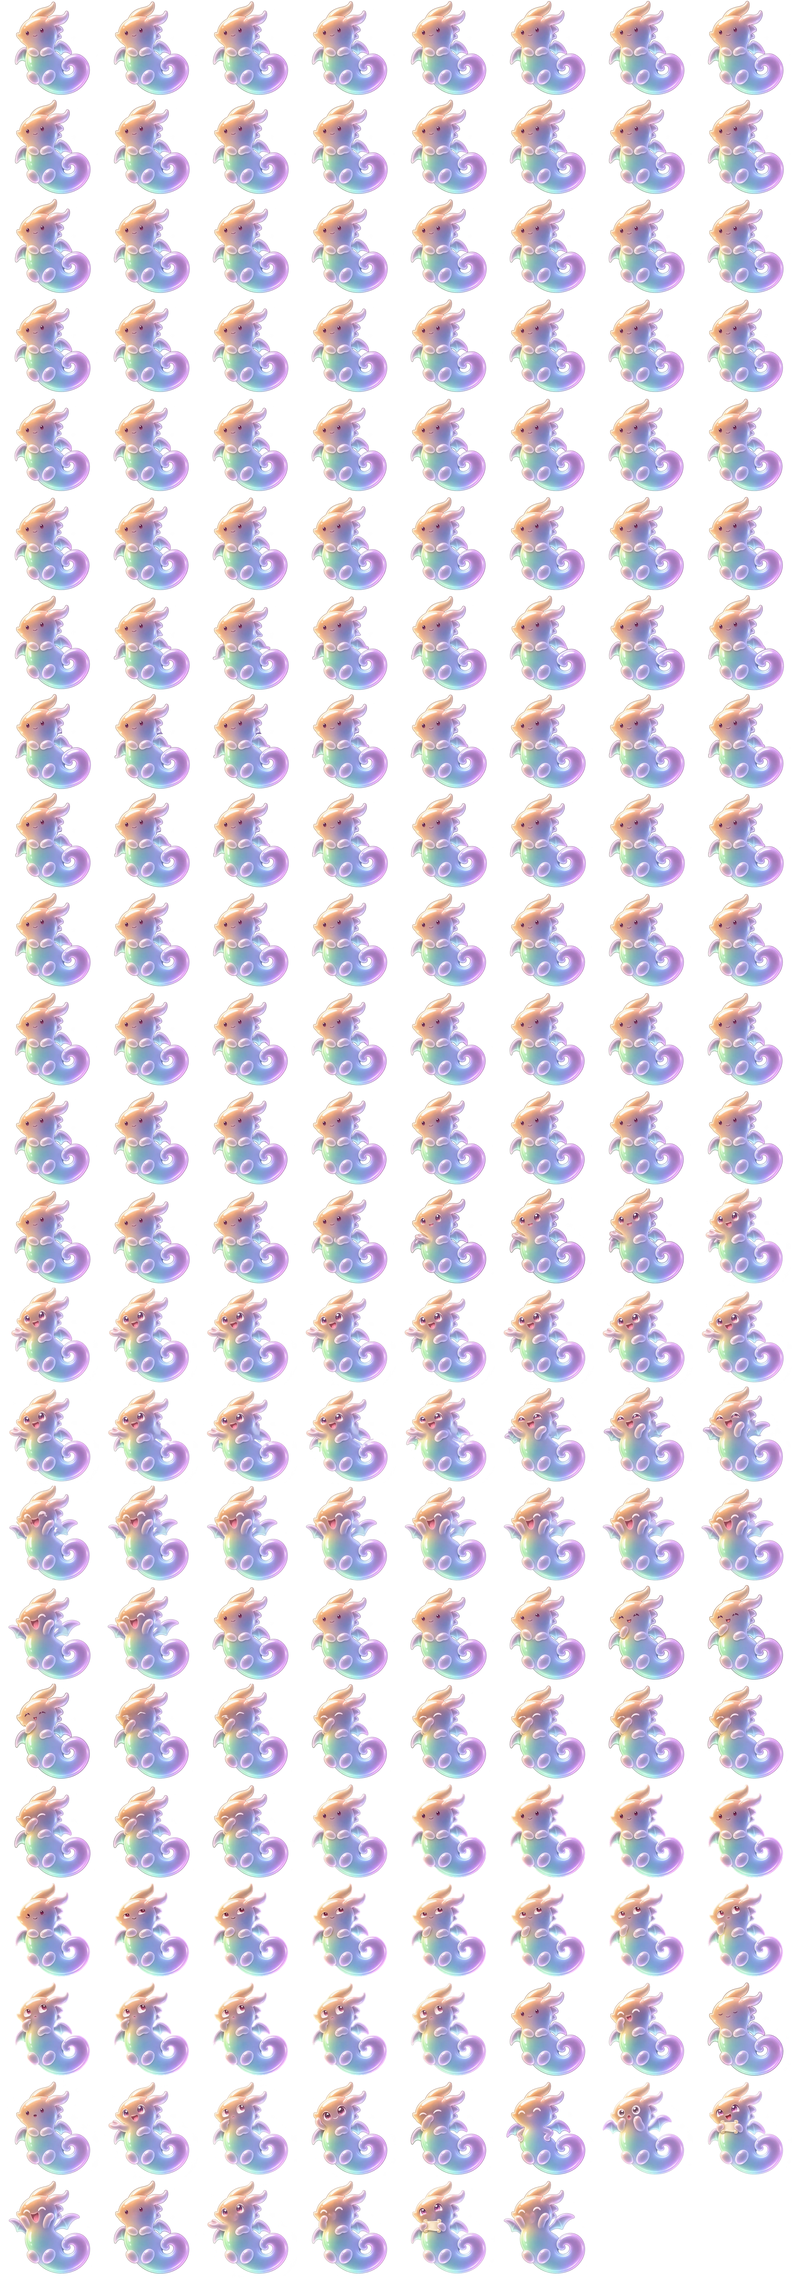
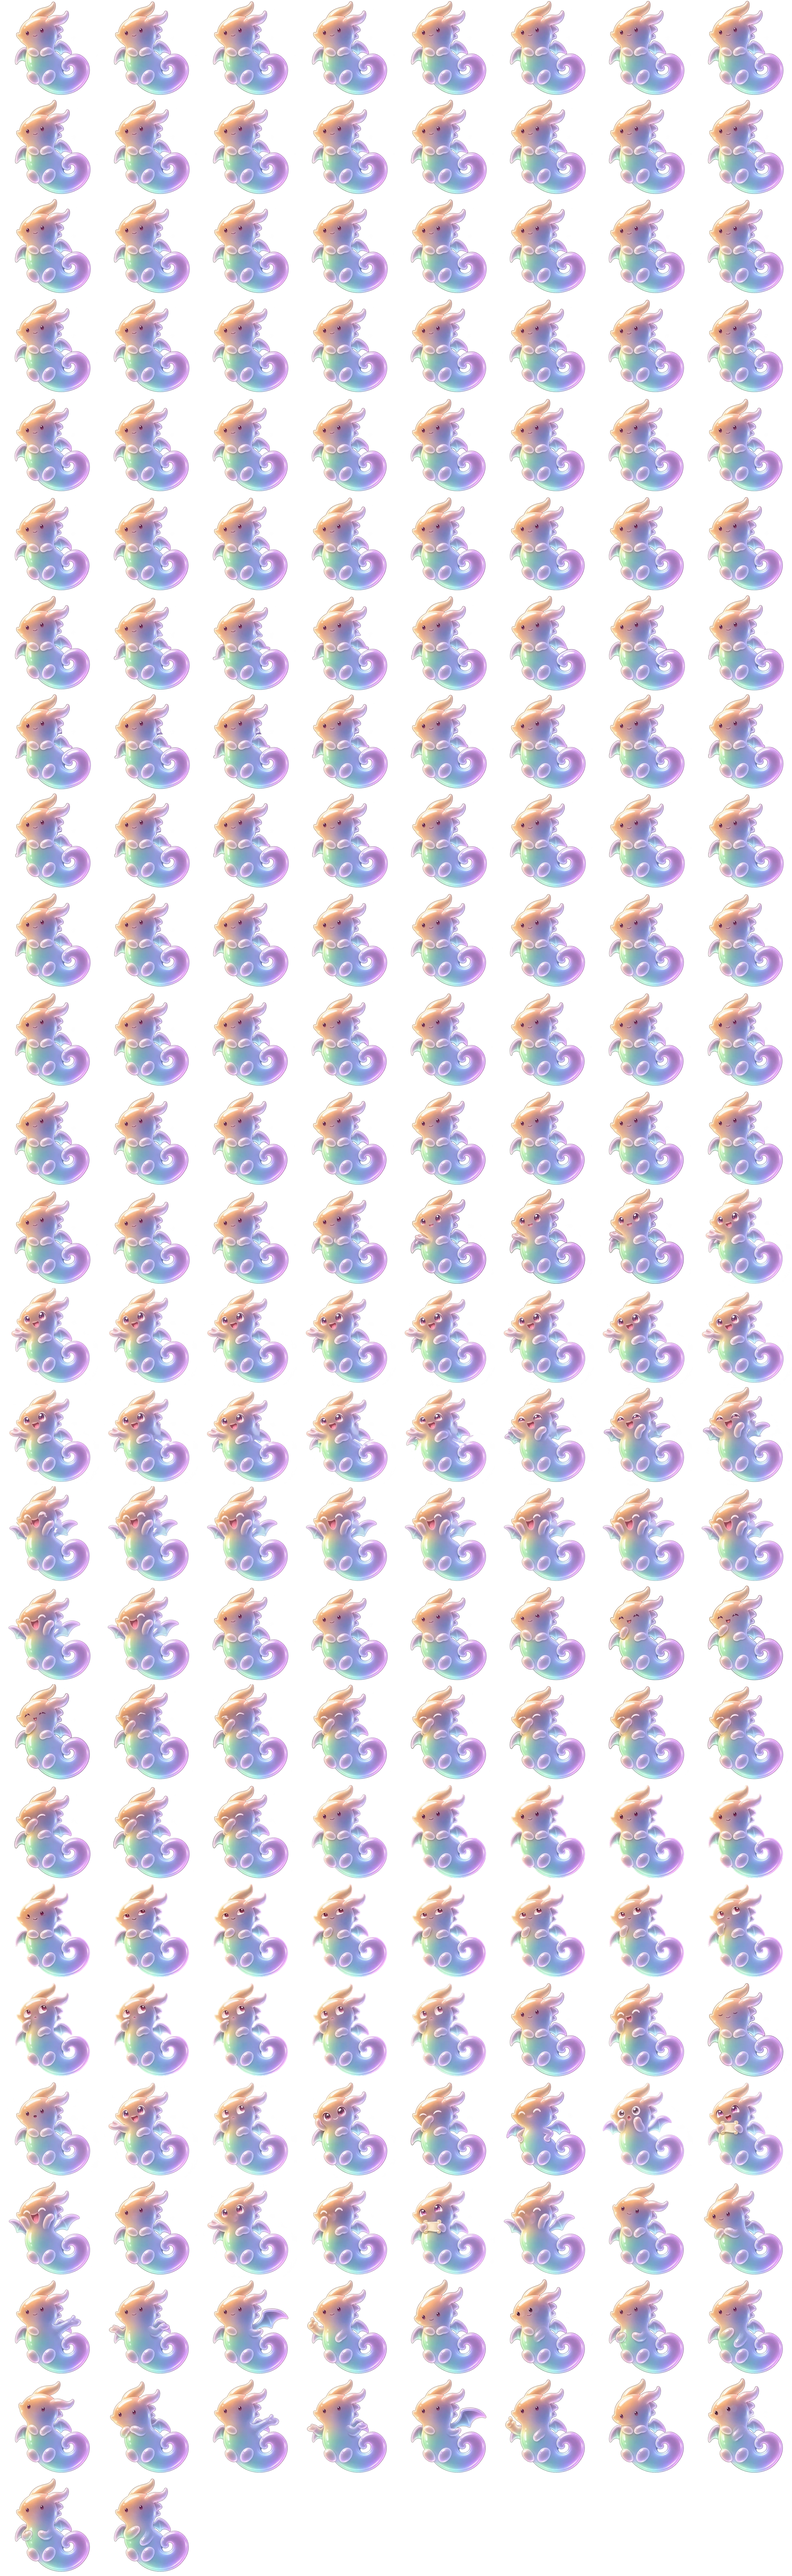
Pack ten conversational talking poses into the voice dragon's body sheet
Extend body.webp from 8x23 to 8x26 (2400x7800, 202 cells) with ten closed-mouth
talking keys (cells 182-191) and their Telea-inpainted mouthless pairs (cells
192-201), preserving cells 0-181 and neutral lower-body registration. Update the
scene atlas dimensions in state.plm and dragon.plm, and document the new cells,
per-pose mouth/eye anchors and provenance in dragon/README.md.

diff --git a/shell/assistant/dragon/README.md b/shell/assistant/dragon/README.md
@@ -6,25 +6,33 @@ The body sheet uses 300 px cells, twice the 150 px the dragon is drawn at. Each 
 
 | File | Grid | Bytes | Decoded at 1× (2×) | Contents |
 |---|---|---|---|---|
-| `body.webp` | 8 × 23 | 3,518,572 | 16.6 MB (66 MB) | Every body frame, so changing frames never changes images. Cells 0–47: idle breath, 2 s. Cells 48–95: wing flutter with a tail flick; both loops start and end on cell 0. Cells 96–164: drawn transitions (first cell, frames): neutral→explain (96, 17), explain→cheer (113, 17), neutral→laugh (130, 17), neutral→thinking (147, 18), reversed for the way back. Cells 165–176: the 12 keys (neutral, happy, blink, neutral-talk, talk-explain, thinking, listening, laugh, pleased, surprised, scroll-talk, wing-cheer). Cells 177–181: neutral, talk-explain, happy, scroll-talk and wing-cheer with the mouth painted out |
+| `body.webp` | 8 × 26 | 3,720,154 | 18.7 MB (74.9 MB) | Every body frame, so changing frames never changes images. Cells 0–47: idle breath, 2 s. Cells 48–95: wing flutter with a tail flick; both loops start and end on cell 0. Cells 96–164: drawn transitions (first cell, frames): neutral→explain (96, 17), explain→cheer (113, 17), neutral→laugh (130, 17), neutral→thinking (147, 18), reversed for the way back. Cells 165–176: the 12 keys (neutral, happy, blink, neutral-talk, talk-explain, thinking, listening, laugh, pleased, surprised, scroll-talk, wing-cheer). Cells 177–181: neutral, talk-explain, happy, scroll-talk and wing-cheer with the mouth painted out. Cells 182–191: ten conversational talking keys (head-tilt, lean-in, right-gesture, shrug, wing-lift, count-one, soft-nod, recall-glance, open-palms, chest-paw). Cells 192–201: the same ten with the mouth painted out |
 | `eyes.webp` | 4 × 1 | 4,876 | — | 100 × 52 px patches: half-blink, blink, glance left, glance up |
 | `mouths.webp` | 8 × 1 | 3,700 | — | 44 × 40 px patches: rest, M/B/P, AA, EH, EE, OH, OO, F/V |
 | `heart.png` | 1 | 2,221 | — | 48 px glass heart for the cheer |
 | `glass.wgsl` | | | | Shimmer shader: a 7° Oklab hue wave every 7 s, and a highlight band that crosses in 1.8 s every 9 s |
 
-Total: 3.5 MB on disk. In the nested Hyprland at scale 1, loading them added 32 MiB of VRAM and about 16 MB of RSS to the bar.
+Total: 3.7 MB on disk. In the nested Hyprland at scale 1, loading them added 32 MiB of VRAM and about 16 MB of RSS to the bar.
 
 ## Anchors
 
 These are in logical pixels within the 150 px cell.
 
-- **Eye patch:** drawn at (28, 33), size 50 × 26. On the idle loop it follows the breath: dx = 0.39 sin(2π(i − 4)/48), dy = −1.47 sin(2πi/48) for idle cell i. It is only used on neutral, because the other keys move the eyes.
+- **Eye patch:** drawn at (28, 33), size 50 × 26. On the idle loop it follows the breath: dx = 0.39 sin(2π(i − 4)/48), dy = −1.47 sin(2πi/48) for idle cell i. Blinks also play on the talking poses that keep neutral's dot eyes, with a per-pose offset:
+  - neutral, right-gesture, shrug, wing-lift, count-one, open-palms, chest-paw (0, 0)
+  - lean-in (−10.1, 5.7)
+  - soft-nod (0.25, 7.8)
+  - head-tilt, recall-glance and the earlier expressive keys omit the eye patch because they rotate or reshape the eyes.
 - **Mouth patch:** drawn at (43.5, 47), size 22 × 20, plus a per-pose offset:
-  - neutral (0, 0)
+  - neutral, right-gesture, shrug, wing-lift, count-one, open-palms, chest-paw (0, 0)
   - talk-explain (0.59, 3.16)
   - happy (−0.23, 2.11)
   - scroll-talk (−0.23, 1.76)
   - wing-cheer (−0.12, 3.87)
+  - head-tilt (−0.3, −2.5)
+  - lean-in (−10.35, 6.1)
+  - soft-nod (0.5, 7.9)
+  - recall-glance (−1.2, 0.9)
 
   The jaw drops by 0.8 × the speech level.
 - **Hearts:** both start when the cheer move reaches frame 9 and live 1.4 s.
@@ -35,6 +43,9 @@ These are in logical pixels within the 150 px cell.
 ## Provenance
 
 - **Keys:** `codex-image` edits of the Tohru mascot, kept on its canvas and registered to neutral on the lower body. This covers the 12 poses, plus these halfway keys: mid-explain, mid-laugh, mid-cheer, the 7 visemes, glance-left and glance-up.
+- **Conversational talking poses:** the ten calm talking keys (`head-tilt`, `lean-in`, `right-gesture`, `shrug`, `wing-lift`, `count-one`, `soft-nod`, `recall-glance`, `open-palms`, `chest-paw`) were generated from the official sheets (`neutral` cell and `shell/brand/mascot.png`) with `gemini-3.1-flash-image`, matted to transparent RGBA and downsampled to 300 × 300 px with the lower body and tail registered to neutral.
+  - `recall-glance` (pose 08) was assembled from the official `neutral` cell, the `eyes.webp` glance-left patch at its anchor `(56, 66)`, a soft-masked −5.5° neck-pivot head tilt and `count-one`'s lowered right paw.
+  - Their mouthless cells paint out the closed smile with Telea inpainting, matching the earlier talking keys.
 - **Idle and flutter:** a procedural puppet of the neutral key. Wings, tail and head rotate on soft masks around their pivots, with a 1.4 % breath.
 - **Explain, cheer and laugh moves:** a layered rig. Limb layers are cut from the keys and turned on their pivots with an overshoot ease through the halfway key; the body is swapped mid-move.
   - The laugh uses a variant key whose left wing comes from mid-laugh, so the paw is the only thing that moves.
